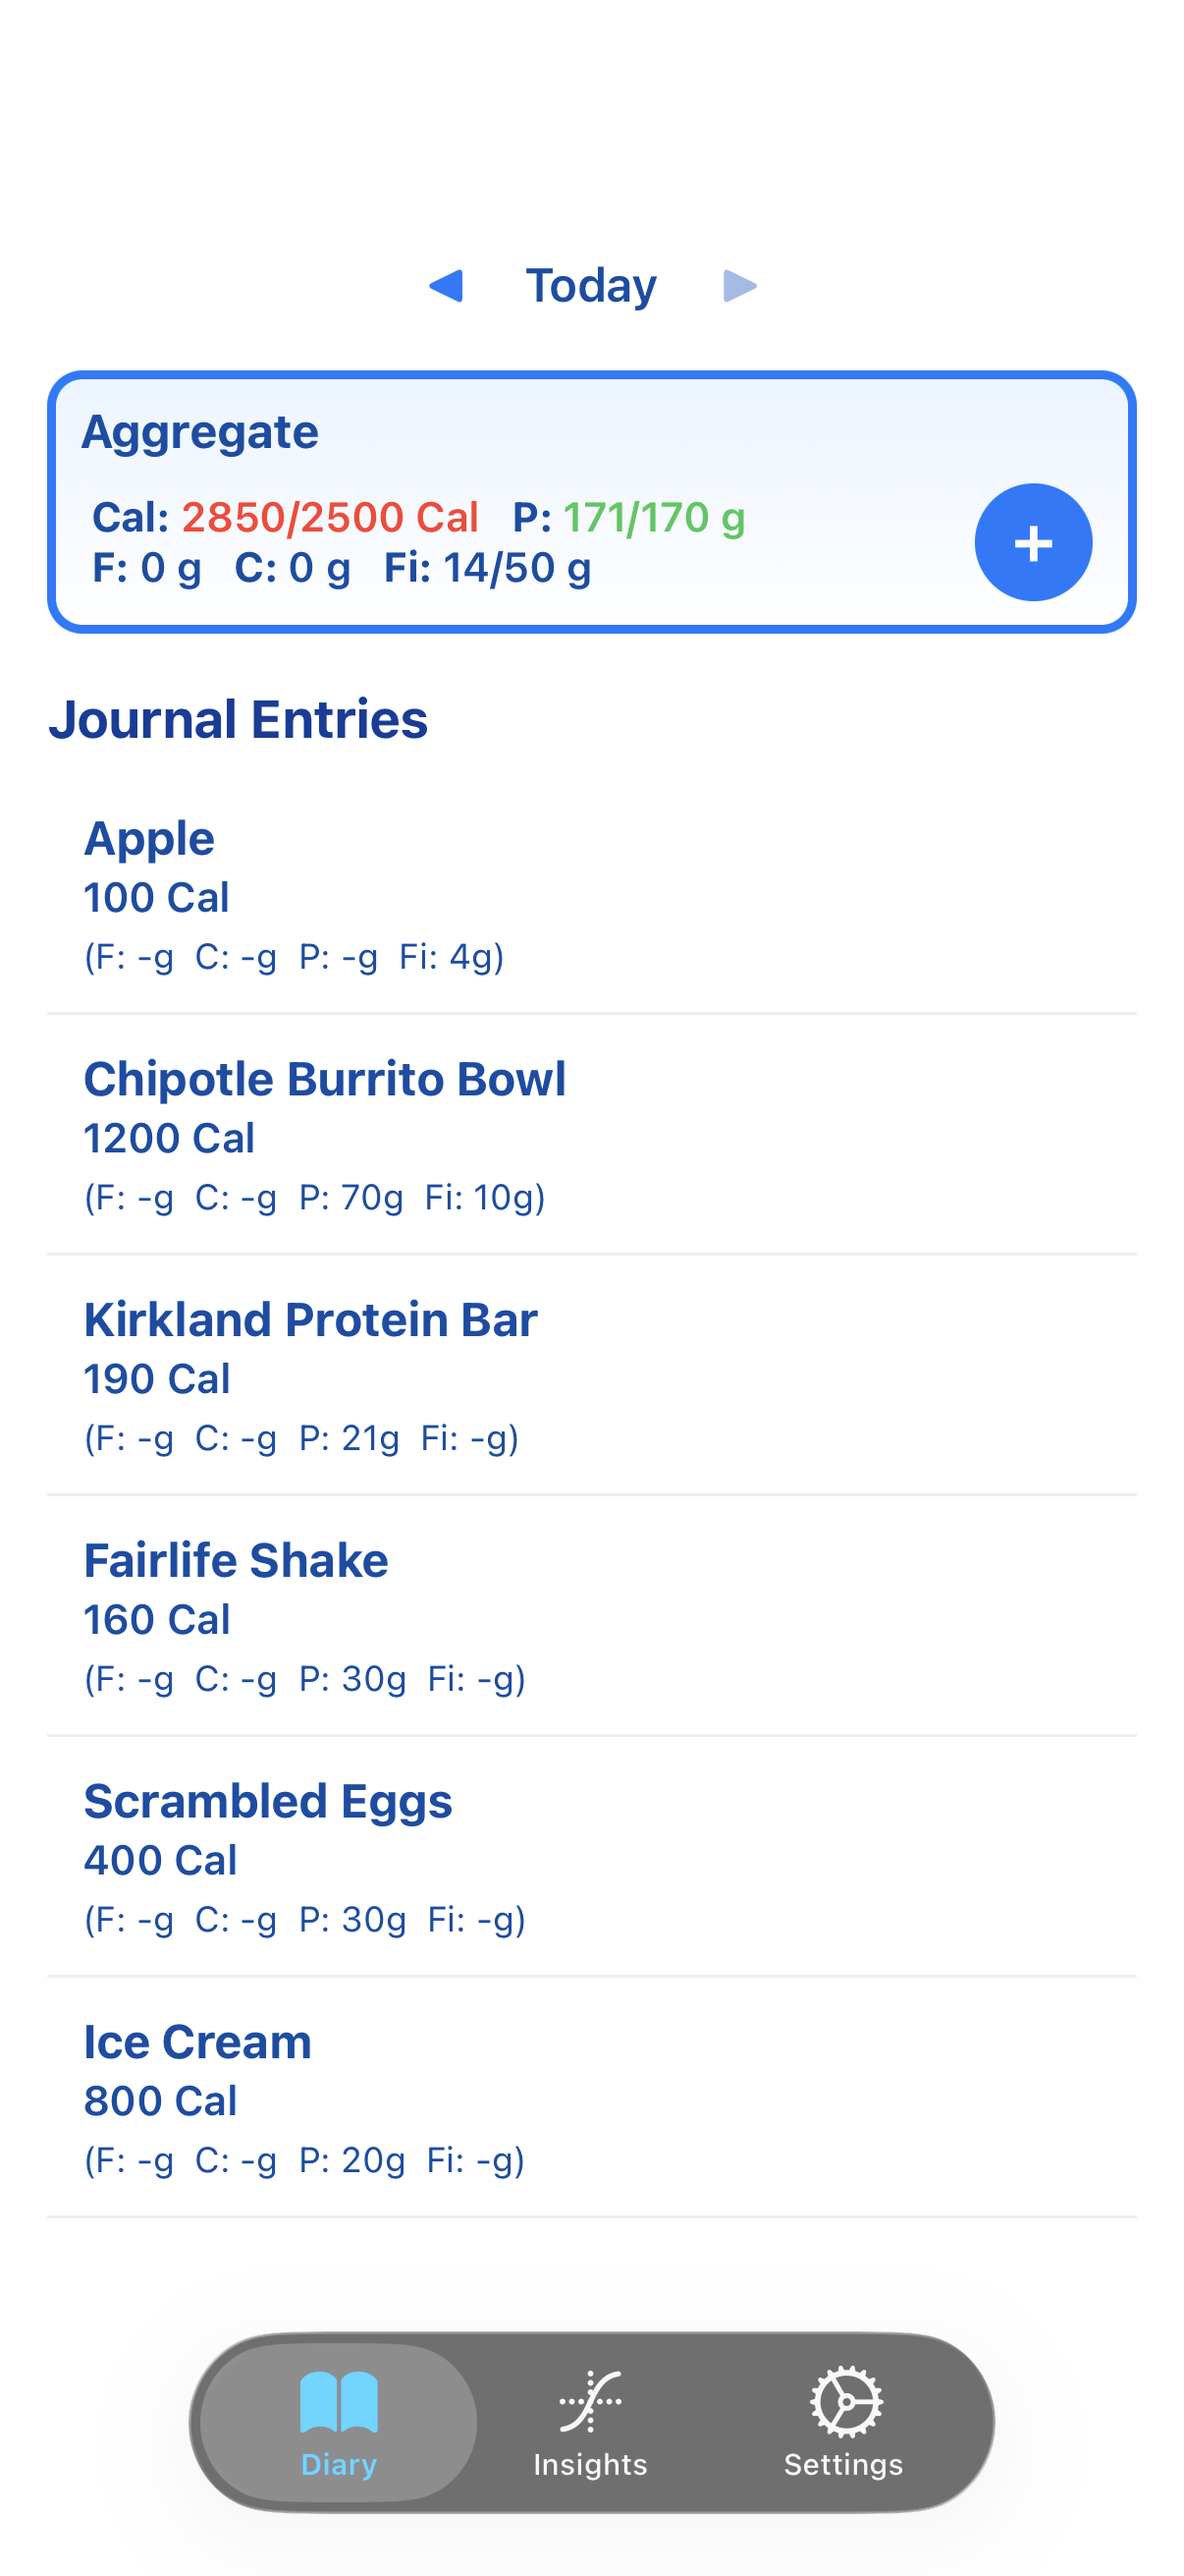
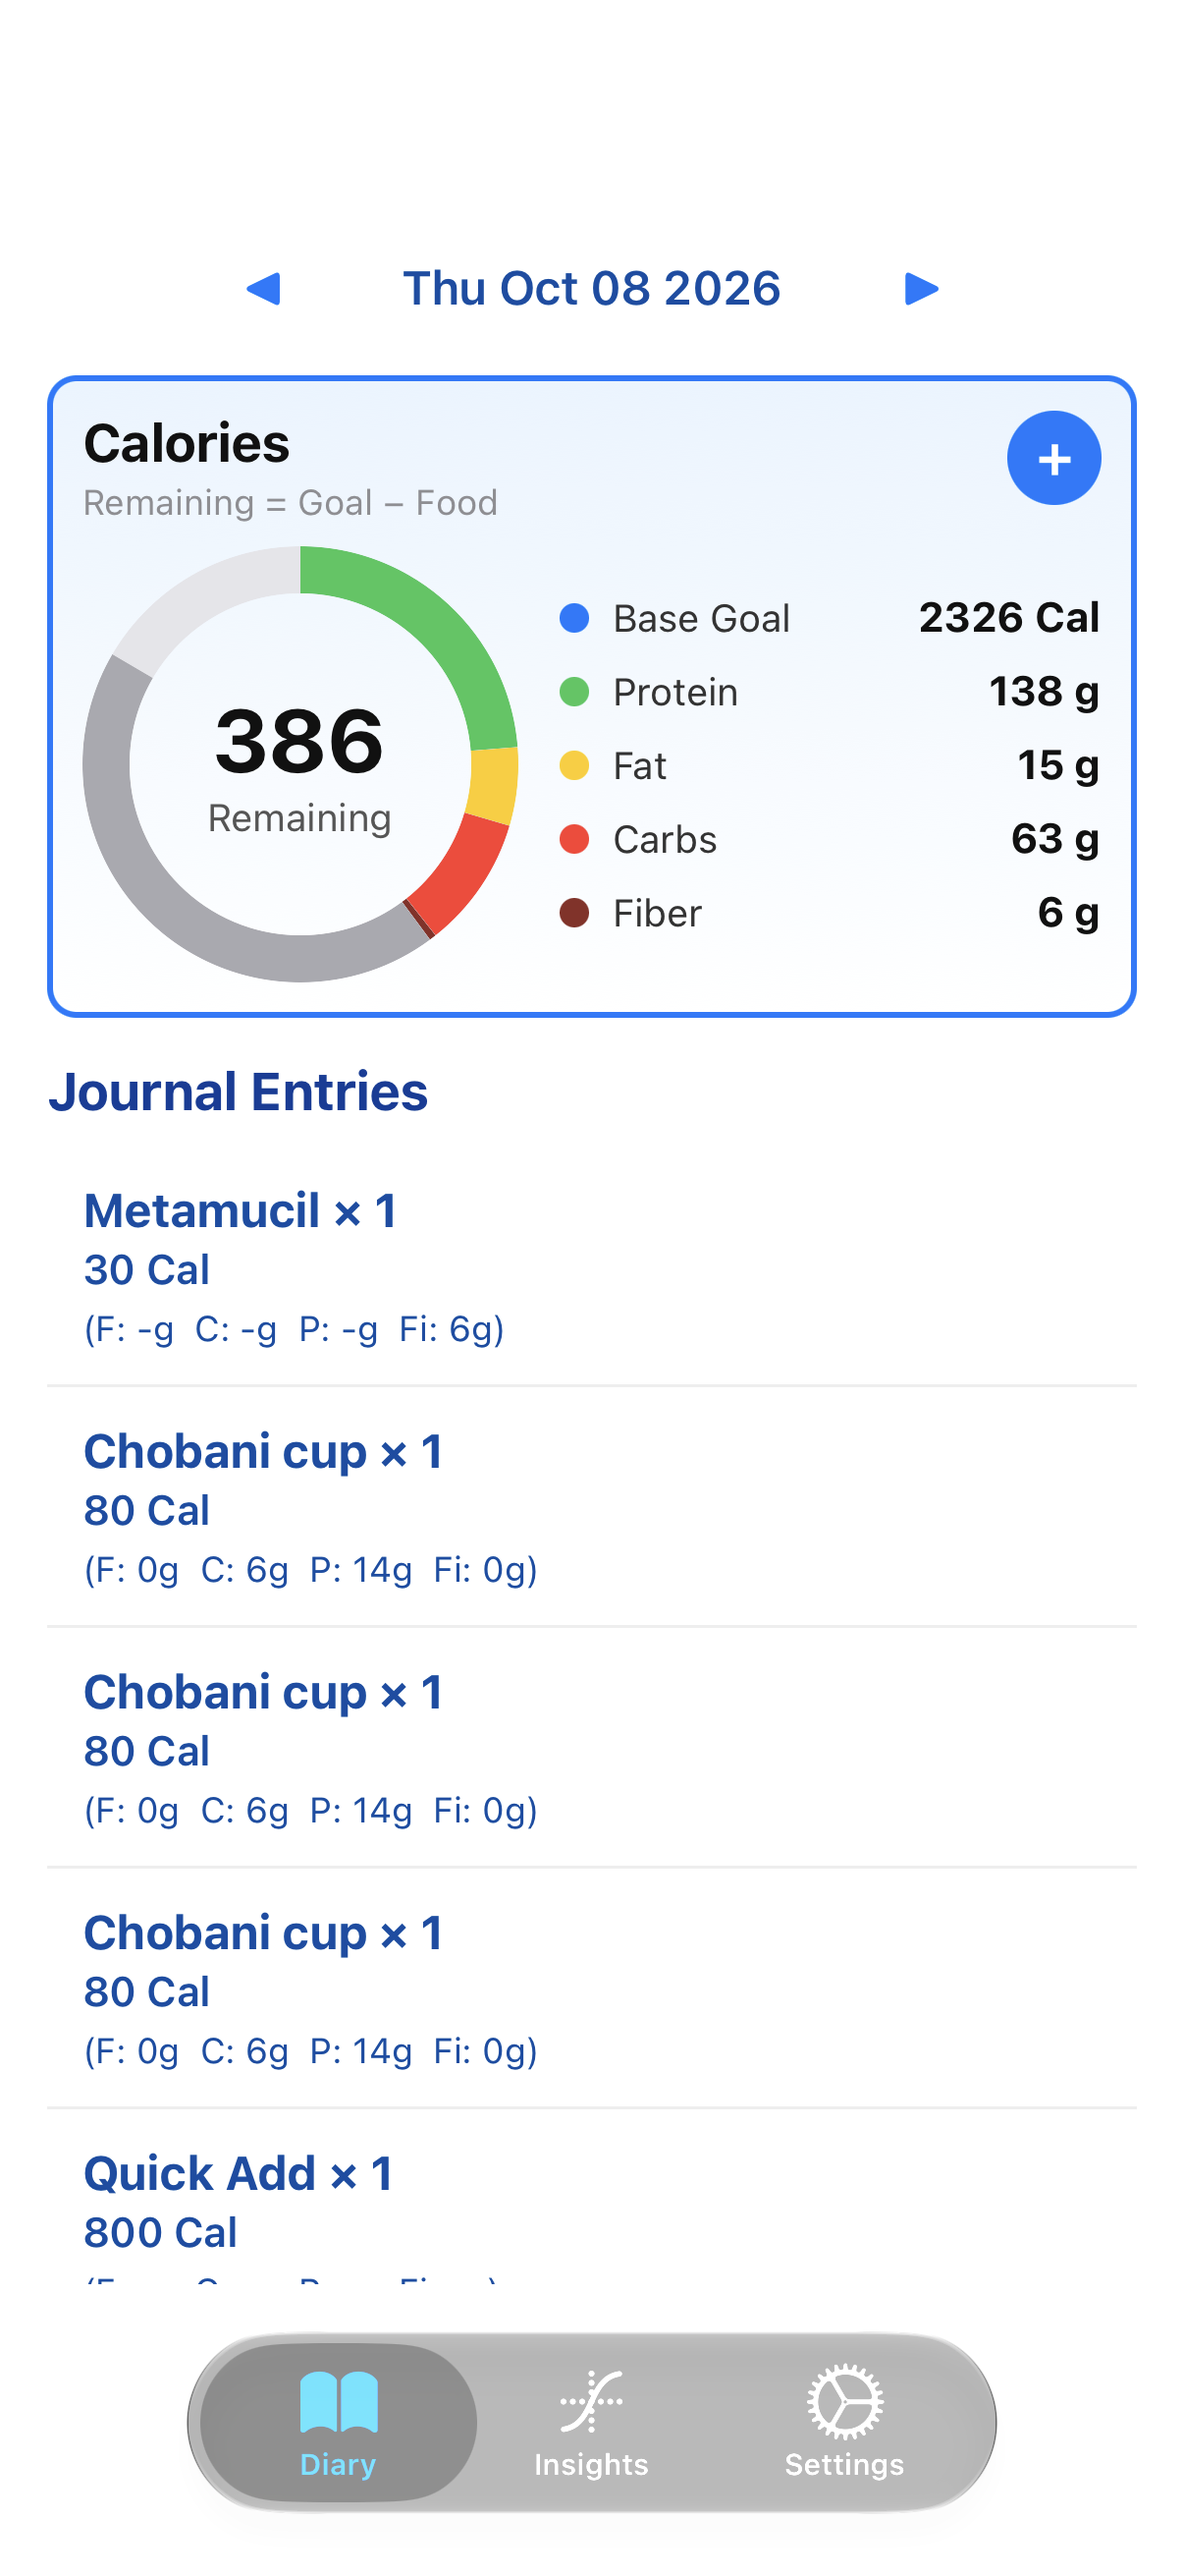
[README] Update screenshots

diff --git a/README.md b/README.md
@@ -13,9 +13,9 @@ Noms is a simple food journal with daily aggregates and long-term visual insight
 
 # Screenshots
 
-| Diary | Insights | Settings |
-|:---:|:---:|:---:|
-| <img src="./screen_1.png" alt="Diary Screenshot" width="50%"> | <img src="./screen_2.png" alt="Diary Screenshot" width="50%"> | <img src="./screen_3.png" alt="Diary Screenshot" width="50%"> |
+| Diary | Catalog |Insights | Settings |
+|:---:|:---:|:---:|:---:|
+| <img src="./screen_1.png" alt="Diary Screenshot" width="50%"> | <img src="./screen_4.png" alt="Catalog Screenshot" width="50%"> | <img src="./screen_2.png" alt="Diary Screenshot" width="50%"> | <img src="./screen_3.png" alt="Diary Screenshot" width="50%"> |
 
 # Build
 
